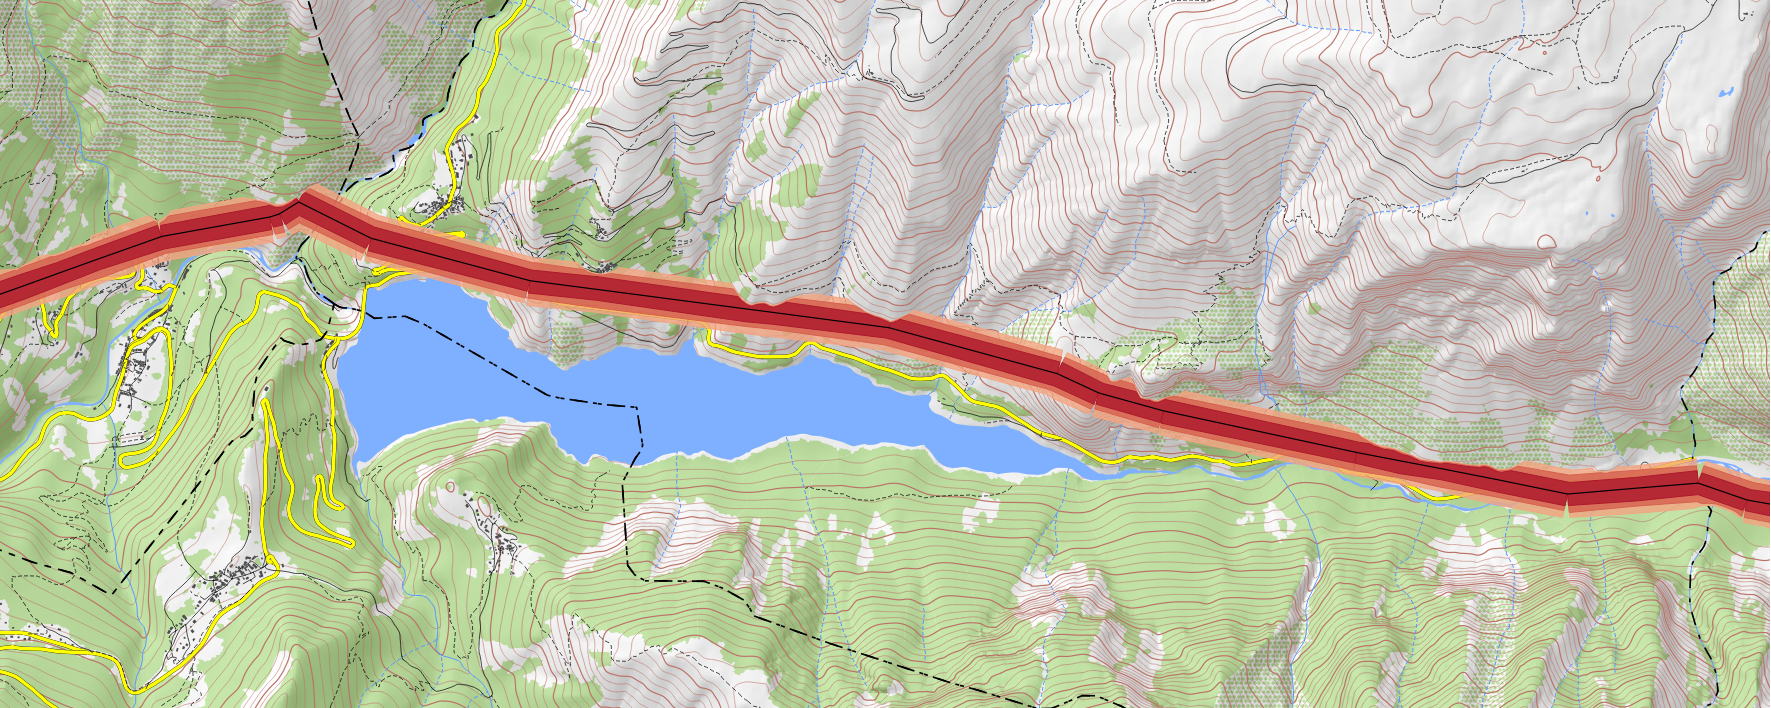
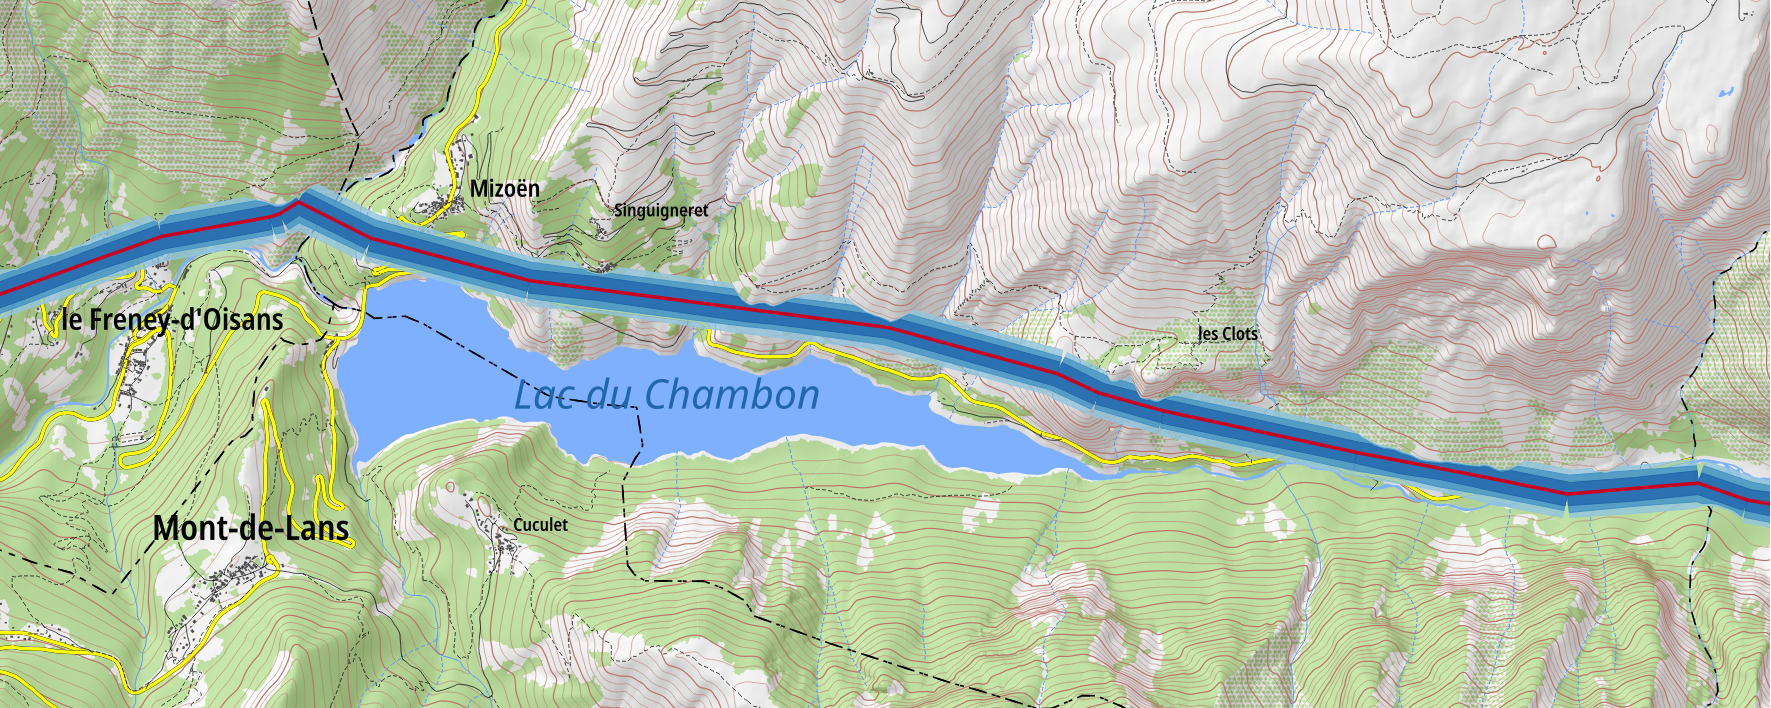
Maj figure alphacut zenith

diff --git a/src/Corps/Partie2/Chapitre6/figures/Alphacut_zenith.tex b/src/Corps/Partie2/Chapitre6/figures/Alphacut_zenith.tex
@@ -1,12 +1,29 @@
 \begin{tikzpicture}
   \tikzset{et/.style={above,font=\footnotesize\vphantom{Ag}}}
-  %
+  % 
   \node[inner sep=0pt, anchor=south west] (image) at (0,0){\includegraphics{./figures/AlphaCut_zenith.png}};
-  %
+  % 
   \begin{scope}
     \node (P2) at ([yshift=-.5cm]image.south east) {};
     \node (P1) at ([yshift=-.5cm]image.south west) {};
-    %
+
+    \node (rect) [anchor=north west, minimum width=1cm,minimum
+    height=.25cm] at ([yshift=-.25cm]P1) {}; \path[draw=RdBu-9-1, line
+    width=.4mm](rect.west) --([xshift=-1ex]rect.south) -- ([xshift=1ex]rect.north)
+    -- (rect.east);
+    \node[anchor=west, font=\tiny\vphantom{Ag}, text width = 4cm] at
+    ([xshift=1ex]rect.east) {Ligne électrique utilisée comme
+      \emph{objet de référence}};
+
+    \node (rect2) [anchor=north west, minimum width=1cm,minimum
+    height=.25cm] at ([xshift=5.5cm,yshift=-.25cm]P1) {};
+    \path[draw=RdBu-9-9, line width=.25mm](rect2.west)
+    --([xshift=-1ex]rect2.north) -- ([xshift=1ex]rect2.south) --
+    (rect2.east); \node[anchor=west, font=\tiny\vphantom{Ag}, text
+    width = 4cm] at ([xshift=1ex]rect2.east) {Isolignes d'éloignement
+      à \emph{l'objet de référence} (équidistance \SI{250}{\meter})};
+
+    % Échelle
     \draw[-] (P2 |- -1cm,-1cm) --++ (-1,0) node[et,pos=.5] {\SI{500}{\meter}};
     % Légende détaillée
     \path (P1) -- (P2) node[pos=.5, yshift=-1cm] {\tiny Pour la légende détaillée du fond topographique voir \autoref{anx:topo_leg}. Sources: BD TOPO 2018, BD ALTI 2018.}; 
